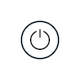
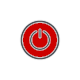
[V 1.6.6][master] Mudança no visual do botão de ligar do coronaKiller. Remoção do padding do botão de parar.

Changed region(s): [[0.25, 0.25, 0.75, 0.75]]

diff --git a/src/coronaKiller/src/pages/Main/styles.js b/src/coronaKiller/src/pages/Main/styles.js
@@ -31,7 +31,6 @@ export default StyleSheet.create({
     flexDirection: 'row',
     alignItems: 'center',
     justifyContent: 'space-around',
-    padding: 5
   },
   containerButtons: {
     height: 120

diff --git a/src/coronaKiller/src/config/globalVariables.js b/src/coronaKiller/src/config/globalVariables.js
@@ -27,4 +27,4 @@ global.stop_time_auto = 0
 global.detect_distance = 1.2
 
 //Variáveis de informação
-global.version = '0.3.1'
+global.version = '0.3.2'
